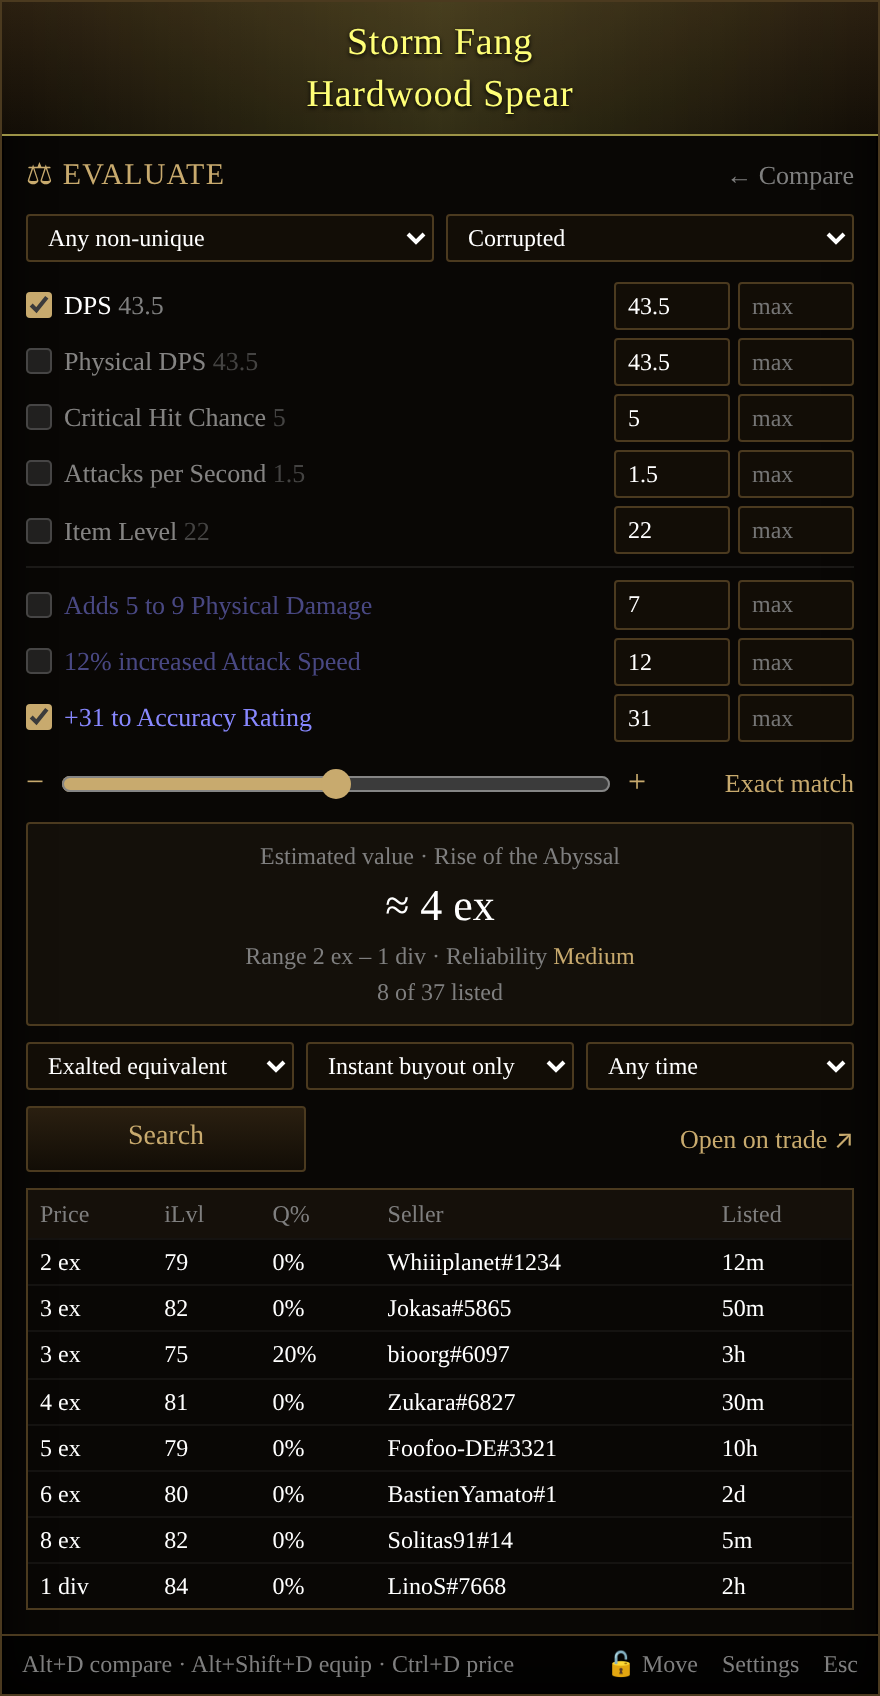
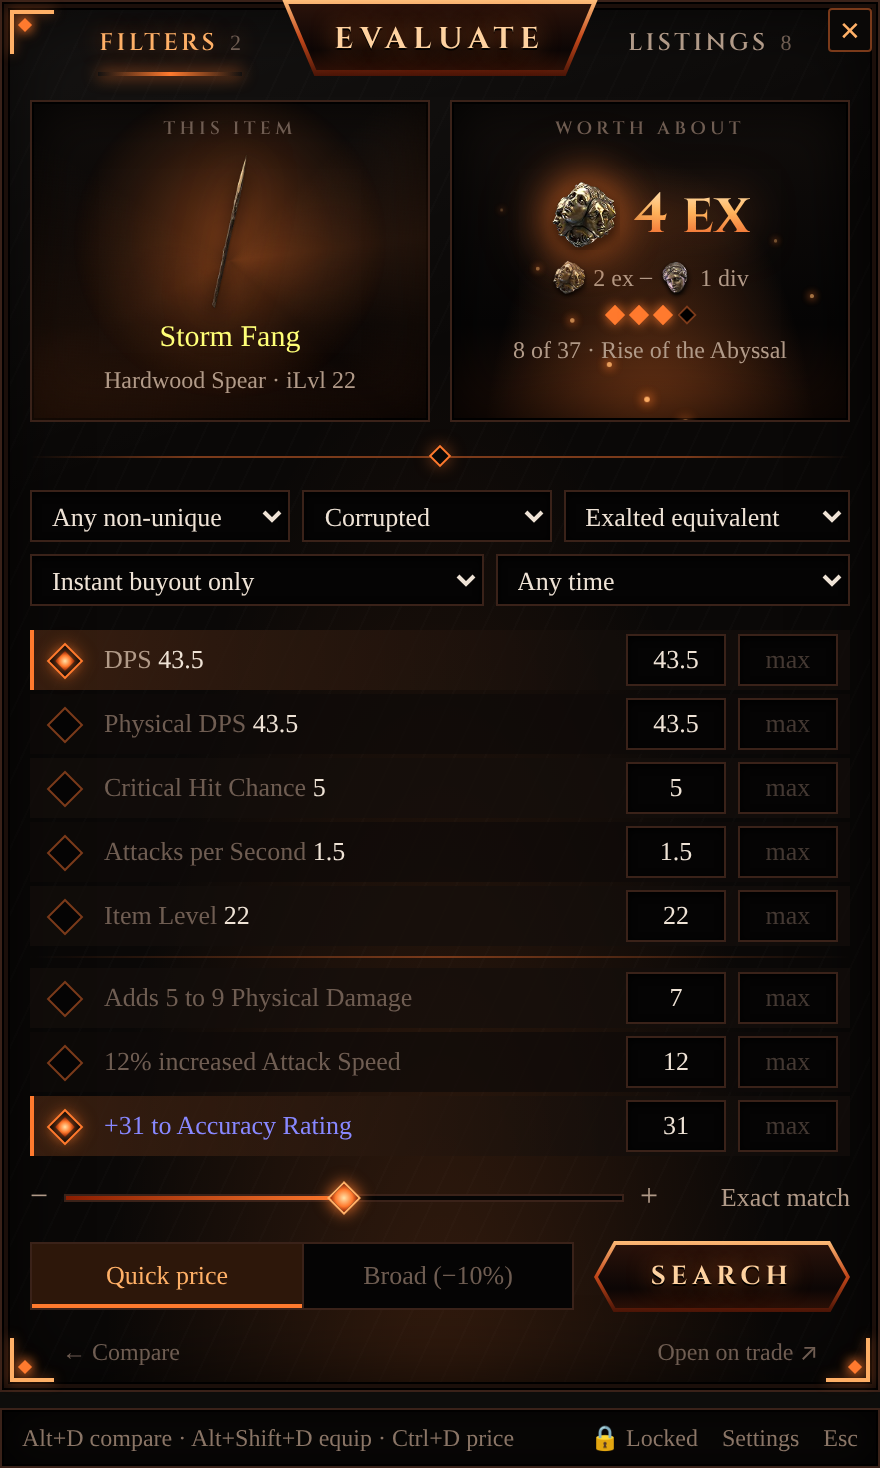
Refresh README screenshots and describe themes
Claude-Session: https://claude.ai/code/session_015YzsekDc3w9msi5R49UdUt

diff --git a/README.md b/README.md
@@ -3,7 +3,7 @@
 **Is this item an upgrade?** Hover it in Path of Exile 2, press **Alt+D**, and find out without leaving the game.
 
 <p align="center">
-  <img src="docs/overlay.png" alt="The overlay comparing a rare ring with the build's ring and the saved ring" width="420" />
+  <img src="docs/overlay.png" alt="The Compare popup: a rare ring between the ring you wear and your build's ring, with the verdict Equip it and a stat-by-stat ledger" width="420" />
 </p>
 
 Divine Mirror is a small overlay for Path of Exile 2. It shows the item under your cursor next to what you have equipped, stat by stat, and tells you whether it's an upgrade.
@@ -35,7 +35,7 @@ In Path of Exile 2, open **Options → Graphics** and set **Display Mode** to **
 | Do this | What happens |
 | --- | --- |
 | Hover an item you're **wearing** and press **Alt+Shift+D** | It's saved as your equipped item for that slot (do this once per slot) |
-| Hover any other item and press **Alt+D** | It pops up in the middle of the screen with ▲ Upgrade, ▼ Downgrade or ≈ Sidegrade, and every stat that changes |
+| Hover any other item and press **Alt+D** | It pops up in the middle of the screen next to the item you wear and your build's item, with a verdict (such as **Equip it** or **Keep yours**) and every stat that changes |
 | Hover an item and press **Ctrl+D** | The popup shows an Evaluate view: tick the stats that matter, search the official trade site and see what similar items sell for |
 | Press **Esc** or click anywhere outside the popup | The popup closes. The game keeps keyboard focus while the popup is open, so you can keep playing and press the hotkey on the next item straight away |
 | Drag the popup by its bottom bar | It opens there from now on. Click **🔓 Move** in its footer to lock it (**🔒 Locked**), or use **Settings → Overlay** to lock it or center it again |
@@ -51,14 +51,22 @@ Works anywhere you can hover an item: your inventory, stash, vendors, or the gro
 
 The app reads the build's gear, main skill and defences. It then boosts the stats your build uses (★ in the list) and ignores ones it doesn't, such as cast speed on an attack build or energy shield on an evasion build. You can change any number in the list to fine-tune it.
 
-With a build added, **Alt+D** always compares the item against your build's item for that slot, so you can see how close it gets to the build's gear. If you've also saved your own item for that slot, a second comparison against it shows underneath.
+With a build added, **Alt+D** also compares the item against your build's item for that slot, so you can see how close it gets to the build's gear. The popup shows the item you wear, the new item and your build's item side by side. Click **Show full comparison** for every stat and the full item text.
+
+**Pick a theme**
+
+Open **Settings → Theme** and choose **Ember** (glowing embers on obsidian), **Mana** (a sapphire glow in a bronze frame, like the mana globe) or **Iron** (gunmetal and pale gold, like the in-game menu). Every window follows the theme you pick.
+
+<p align="center">
+  <img src="docs/themes.png" alt="The same comparison in the Ember, Mana and Iron themes" width="840" />
+</p>
 
 **Check the price**
 
 Press **Ctrl+D** on an item, or click **⚖ Evaluate price** at the bottom of any popup. With a popup already open, **Ctrl+D** switches it to Evaluate unless you're hovering a different item in the game. The popup switches to an Evaluate view, like PoE Overlay's:
 
 <p align="center">
-  <img src="docs/evaluate.png" alt="The Evaluate view for a rare spear with stat filters, the range slider, an estimated value and the cheapest listings" width="420" />
+  <img src="docs/evaluate.png" alt="The Evaluate view for a rare spear with its item art, an estimated value with currency icons, stat filters and the range slider" width="420" />
 </p>
 
 - Every property (DPS, defences, item level, quality, rune sockets) and mod gets a row with a checkbox and **min**/**max** boxes. Tick the ones that matter and adjust the numbers. Mods the trade site can't search for are shown in italics.
